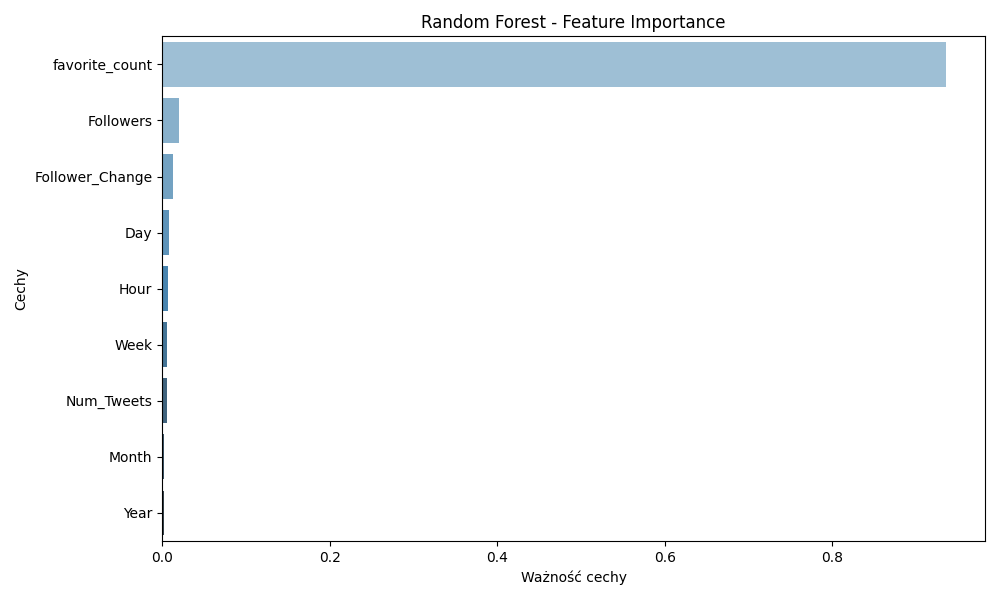
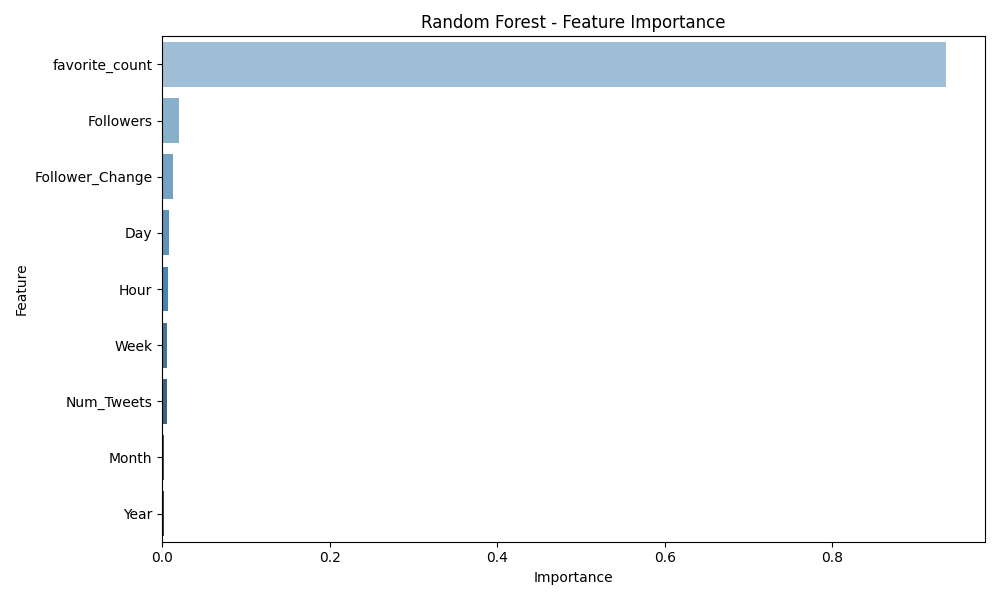
corr plot_feature_importance

diff --git a/src/visualization/plot_feature_importance.py b/src/visualization/plot_feature_importance.py
@@ -1,36 +1,35 @@
-import os
 import matplotlib.pyplot as plt
 import seaborn as sns
-import pandas as pd
+import os
 
-def plot_feature_importance_bar(importance_df, title="Feature Importance", top_n=10, save_path=None):
+def plot_feature_importance_bar(importance_df, title, save_path, top_n=20, metric='Importance'):
     """
-    Tworzy wykres słupkowy ważności cech i zapisuje go do pliku PNG, jeśli podano ścieżkę.
+    Tworzy wykres słupkowy najważniejszych cech według wskazanej metryki.
 
     Parametry:
-    - importance_df: DataFrame z kolumnami 'Feature' i 'Importance'
+    - importance_df: DataFrame z kolumnami 'Feature' oraz wybraną metryką ('Importance', 'gain', 'weight', itp.)
     - title: tytuł wykresu
-    - top_n: liczba najważniejszych cech do pokazania
-    - save_path: pełna ścieżka zapisu wykresu (.png), np. 'results/plots/rf_importance.png'
+    - save_path: ścieżka do pliku, w którym zapisze się wykres
+    - top_n: ile najważniejszych cech pokazać (domyślnie 20)
+    - metric: według której kolumny sortować ('Importance', 'gain', itd.)
     """
 
-    top_features = importance_df.sort_values(by="Importance", ascending=False).head(top_n)
+    # Sprawdzamy czy wskazana metryka istnieje w DataFrame
+    if metric not in importance_df.columns:
+        raise ValueError(f"Metryka '{metric}' nie istnieje w danych. Dostępne kolumny: {importance_df.columns.tolist()}")
 
+    # Wybieramy najważniejsze cechy według wskazanej metryki
+    top_features = importance_df.sort_values(by=metric, ascending=False).head(top_n)
+
+    # Upewniamy się, że folder na zapis wykresu istnieje
+    os.makedirs(os.path.dirname(save_path), exist_ok=True)
+
+    # Tworzenie wykresu
     plt.figure(figsize=(10, 6))
-    sns.barplot(x="Importance", y="Feature", data=top_features, palette="Blues_d")
+    sns.barplot(x=metric, y='Feature', data=top_features, palette="Blues_d")
     plt.title(title)
-    plt.xlabel("Ważność cechy")
-    plt.ylabel("Cechy")
     plt.tight_layout()
+    plt.savefig(save_path)
+    plt.close()
 
-    if save_path:
-        # Tworzenie katalogu, jeśli nie istnieje
-        directory = os.path.dirname(save_path)
-        if not os.path.exists(directory):
-            os.makedirs(directory)
-
-        plt.savefig(save_path)
-        print(f"Wykres zapisany do pliku: {save_path}")
-        plt.close()
-    else:
-        plt.show()
+    print(f"Wykres zapisany do pliku: {save_path}")

diff --git a/main.py b/main.py
@@ -52,8 +52,9 @@ def main():
 
     plot_feature_importance_bar(
         importance_df=xgb_imp,
-        title="XGBoost - Feature Importance",
-        save_path="results/plots/xgb_importance.png"
+        title="XGBoost Feature Importance (Gain)",
+        save_path="results/plots/xgb_importance_plot.png",
+        metric="gain"
     )
 
     print("=== SHAP Summary Plot dla XGBoost ===")
